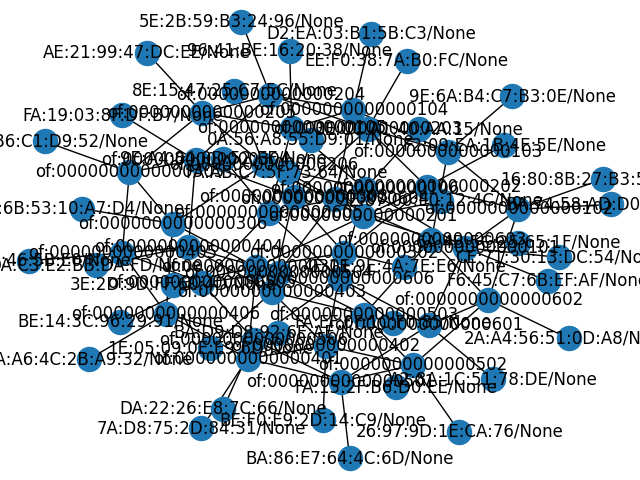
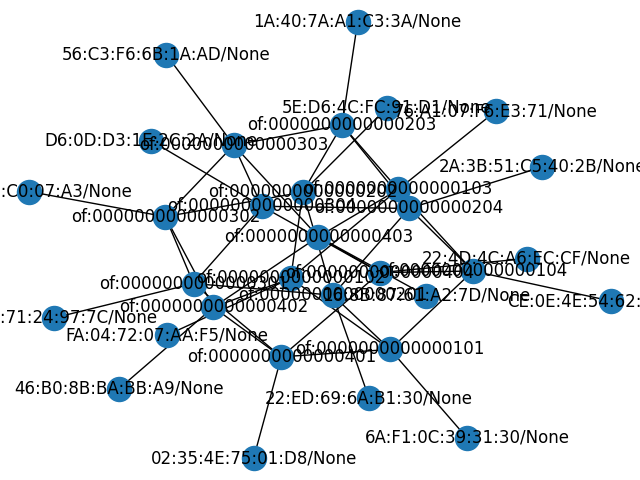
update app versions graphql et rest

diff --git a/app-rest-v2.py b/app-rest-v2.py
@@ -17,26 +17,25 @@ print("Vérification de la disponibilité de l'API Onos...\n")
 
 # print(r_links)
 
-
 # création du graphe de la topologie du réseau associé au contrôleur ONOS à partir de son adresse IP
 def create_graph_from_topology(ip):
     # initialisation du graphe
     gr = nx.Graph()
 
     # requêtes au contrôleur ONOS
-    url = "http://"+ip+":5000/graphql"
-    liens_query = {'query': "query{liens{src,dst}}"}
-    host_query = {'query': "query{hosts{id,locations}}"}
-    r_hosts = requests.post(url, auth=HTTPBasicAuth('karaf','karaf'), data = host_query)
-    r_links = requests.post(url, auth=HTTPBasicAuth('karaf','karaf'), data = liens_query)
-
-    if (r_hosts.status_code != 200):
+    # r_devices = requests.get("http://"+ip+":8181/onos/v1/devices", auth=HTTPBasicAuth('karaf','karaf'))
+    r_host = requests.get("http://"+ip+":5000/hosts", auth=HTTPBasicAuth('karaf','karaf'))
+    r_link = requests.get("http://"+ip+":5000/links", auth=HTTPBasicAuth('karaf','karaf'))
+    if (r_host.status_code != 200):
         return "Erreur sur la liste des hôtes."
-    elif (r_links.status_code != 200):
+    elif (r_link.status_code != 200):
         return "Erreur sur la liste des liens."
+    # elif (r_devices.status_code != 200):
+    #     return "Erreur sur la liste des appareils."
     else:
-        host_list = r_hosts.json()['data']['hosts']
-        link_list = r_links.json()['data']['liens']
+        # devices_list = r_devices.json()['devices']
+        host_list = r_host.json()
+        link_list = r_link.json()
         
         # for i in devices_list:
         #     gr.add_node(i['id'])
@@ -53,7 +52,7 @@ def create_graph_from_topology(ip):
 start = time.time()
 gr = create_graph_from_topology("192.168.1.154")
 r = nx.draw(gr, with_labels=True)
-plt.savefig("test-graphql.png")
+plt.savefig("test.png")
 end = time.time()
 
 print("La topologie du réseau a été générée. Temps de génération : ", end - start, " secondes\n")
@@ -93,4 +92,3 @@ for i in range(0,len(l)-1):
             fwd_orig = ("","")
 
 print(liste_intent)
-
